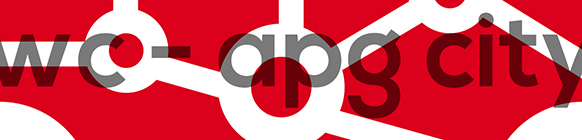
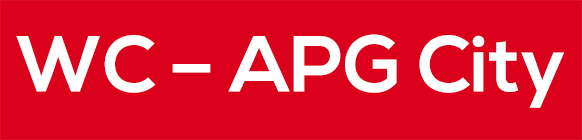
Versión 1.0.1.1

diff --git a/assets/css/style.css b/assets/css/style.css
@@ -7,12 +7,12 @@ table.apg-table, .cabecera {
 	max-width: 586px;
 }
 .imagen {
-	border-left: 4px solid #7AD03A;
+	border-left: 4px solid #07628c;
 	box-shadow: 0 1px 1px 0 rgba(0, 0, 0, 0.1);
 	max-width: 100%;
 	display: block;
 }
-.imagen:hover {
+.imagen:hover, .estrellas .star-rating .star:hover, div.informacion a:hover {
 	-ms-filter: "progid:DXImageTransform.Microsoft.Alpha(Opacity=80)";
 	filter: alpha(opacity=80);
 	-moz-opacity: 0.8;
@@ -22,11 +22,9 @@ table.apg-table, .cabecera {
 .estrellas div {
 	display: inline!important;
 }
-.estrellas div:hover {
-	color: #2ea2cc;
-}
 .estrellas .star-rating .star {
 	font-size: 18px;
+	color: #fff;
 }
 div.informacion .genericon, div.informacion .estrellas .star-rating .star, div.informacion .artprojectgroup {
 	width: 15px;
@@ -34,14 +32,15 @@ div.informacion .genericon, div.informacion .estrellas .star-rating .star, div.i
 	font-size: 15px;
 }
 div.informacion {
-	background-color: #FFFFFF;
+	background-color: rgba(7,98,140,0.8);
 	float: right;
 	padding: 10px;
 	width: 15%;
 	max-width: 220px;
 	text-align: center;
-	border-left: 4px solid #7AD03A;
+	border-left: 4px solid #d9001d;
 	box-shadow: 0 1px 1px 0 rgba(0, 0, 0, 0.1);
+	color: #fff;
 }
 div.informacion div.fila {
 	padding: 10px 10px 0px;
@@ -49,7 +48,7 @@ div.informacion div.fila {
 	max-width: 190px;
 }
 div.informacion div.fila, div.informacion div.columna:nth-child(2n) {
-	border-top: 1px solid #7AD03A;
+	border-top: 1px solid #fff;
 }
 div.informacion div.fila:first-child {
 	border: none;
@@ -64,6 +63,7 @@ div.informacion div.fila.final {
 }
 div.informacion a {
 	text-decoration: none;
+	color: #fff;
 }
 table.apg-table select, table.apg-table textarea {
 	width: 100% !important;

diff --git a/apg-city.php b/apg-city.php
@@ -1,15 +1,15 @@
 <?php
 /*
 Plugin Name: WC - APG City
-Version: 1.0.1
+Version: 1.0.1.1
 Plugin URI: https://wordpress.org/plugins/wc-apg-city/
 Description: Add to WooCommerce an automatic city name generated from postcode.
 Author URI: https://artprojectgroup.es/
 Author: Art Project Group
 Requires at least: 3.8
-Tested up to: 4.9
+Tested up to: 4.9.1
 WC requires at least: 2.1
-WC tested up to: 3.2.3
+WC tested up to: 3.3
 
 Text Domain: wc-apg-city
 Domain Path: /languages
@@ -32,7 +32,7 @@ $apg_city = array(
 	'plugin' 		=> 'WC - APG City', 
 	'plugin_uri' 	=> 'wc-apg-city', 
 	'donacion' 		=> 'https://artprojectgroup.es/tienda/donacion',
-	'soporte' 		=> 'https://wcprojectgroup.es/tienda/ticket-de-soporte',
+	'soporte' 		=> 'https://artprojectgroup.es/tienda/ticket-de-soporte',
 	'plugin_url' 	=> 'https://artprojectgroup.es/plugins-para-wordpress/plugins-para-woocommerce/wc-apg-city', 
 	'ajustes' 		=> 'admin.php?page=wc-apg-city', 
 	'puntuacion' 	=> 'https://wordpress.org/support/view/plugin-reviews/wc-apg-city'

diff --git a/readme.md b/readme.md
@@ -7,13 +7,13 @@ Tags: woocommerce, commerce, e-commerce, commerce, shop, virtual shop, city, tow
 
 Requires at least: 3.8
 
-Tested up to: 4.9
+Tested up to: 4.9.1
 
-Stable tag: 1.0.1
+Stable tag: 1.0.1.1
 
 WC requires at least: 2.1
 
-WC tested up to: 3.2.3
+WC tested up to: 3.3
 
 License: GPLv3
 
@@ -81,6 +81,11 @@ Si necesitas ayuda para configurar o instalar **WC - APG City**, **Art Project G
 *En ningún caso **Art Project Group** proporciona ningún tipo de soporte técnico gratuito.*
 
 ## Changelog
+### 1.0.1
+* Actualización de cabecera.
+* Actualización de hoja de estilo.
+* Actualización de captura de pantalla.
+
 ### 1.0.1
 * Arreglo menor.
 * Nueva captura de pantalla.
